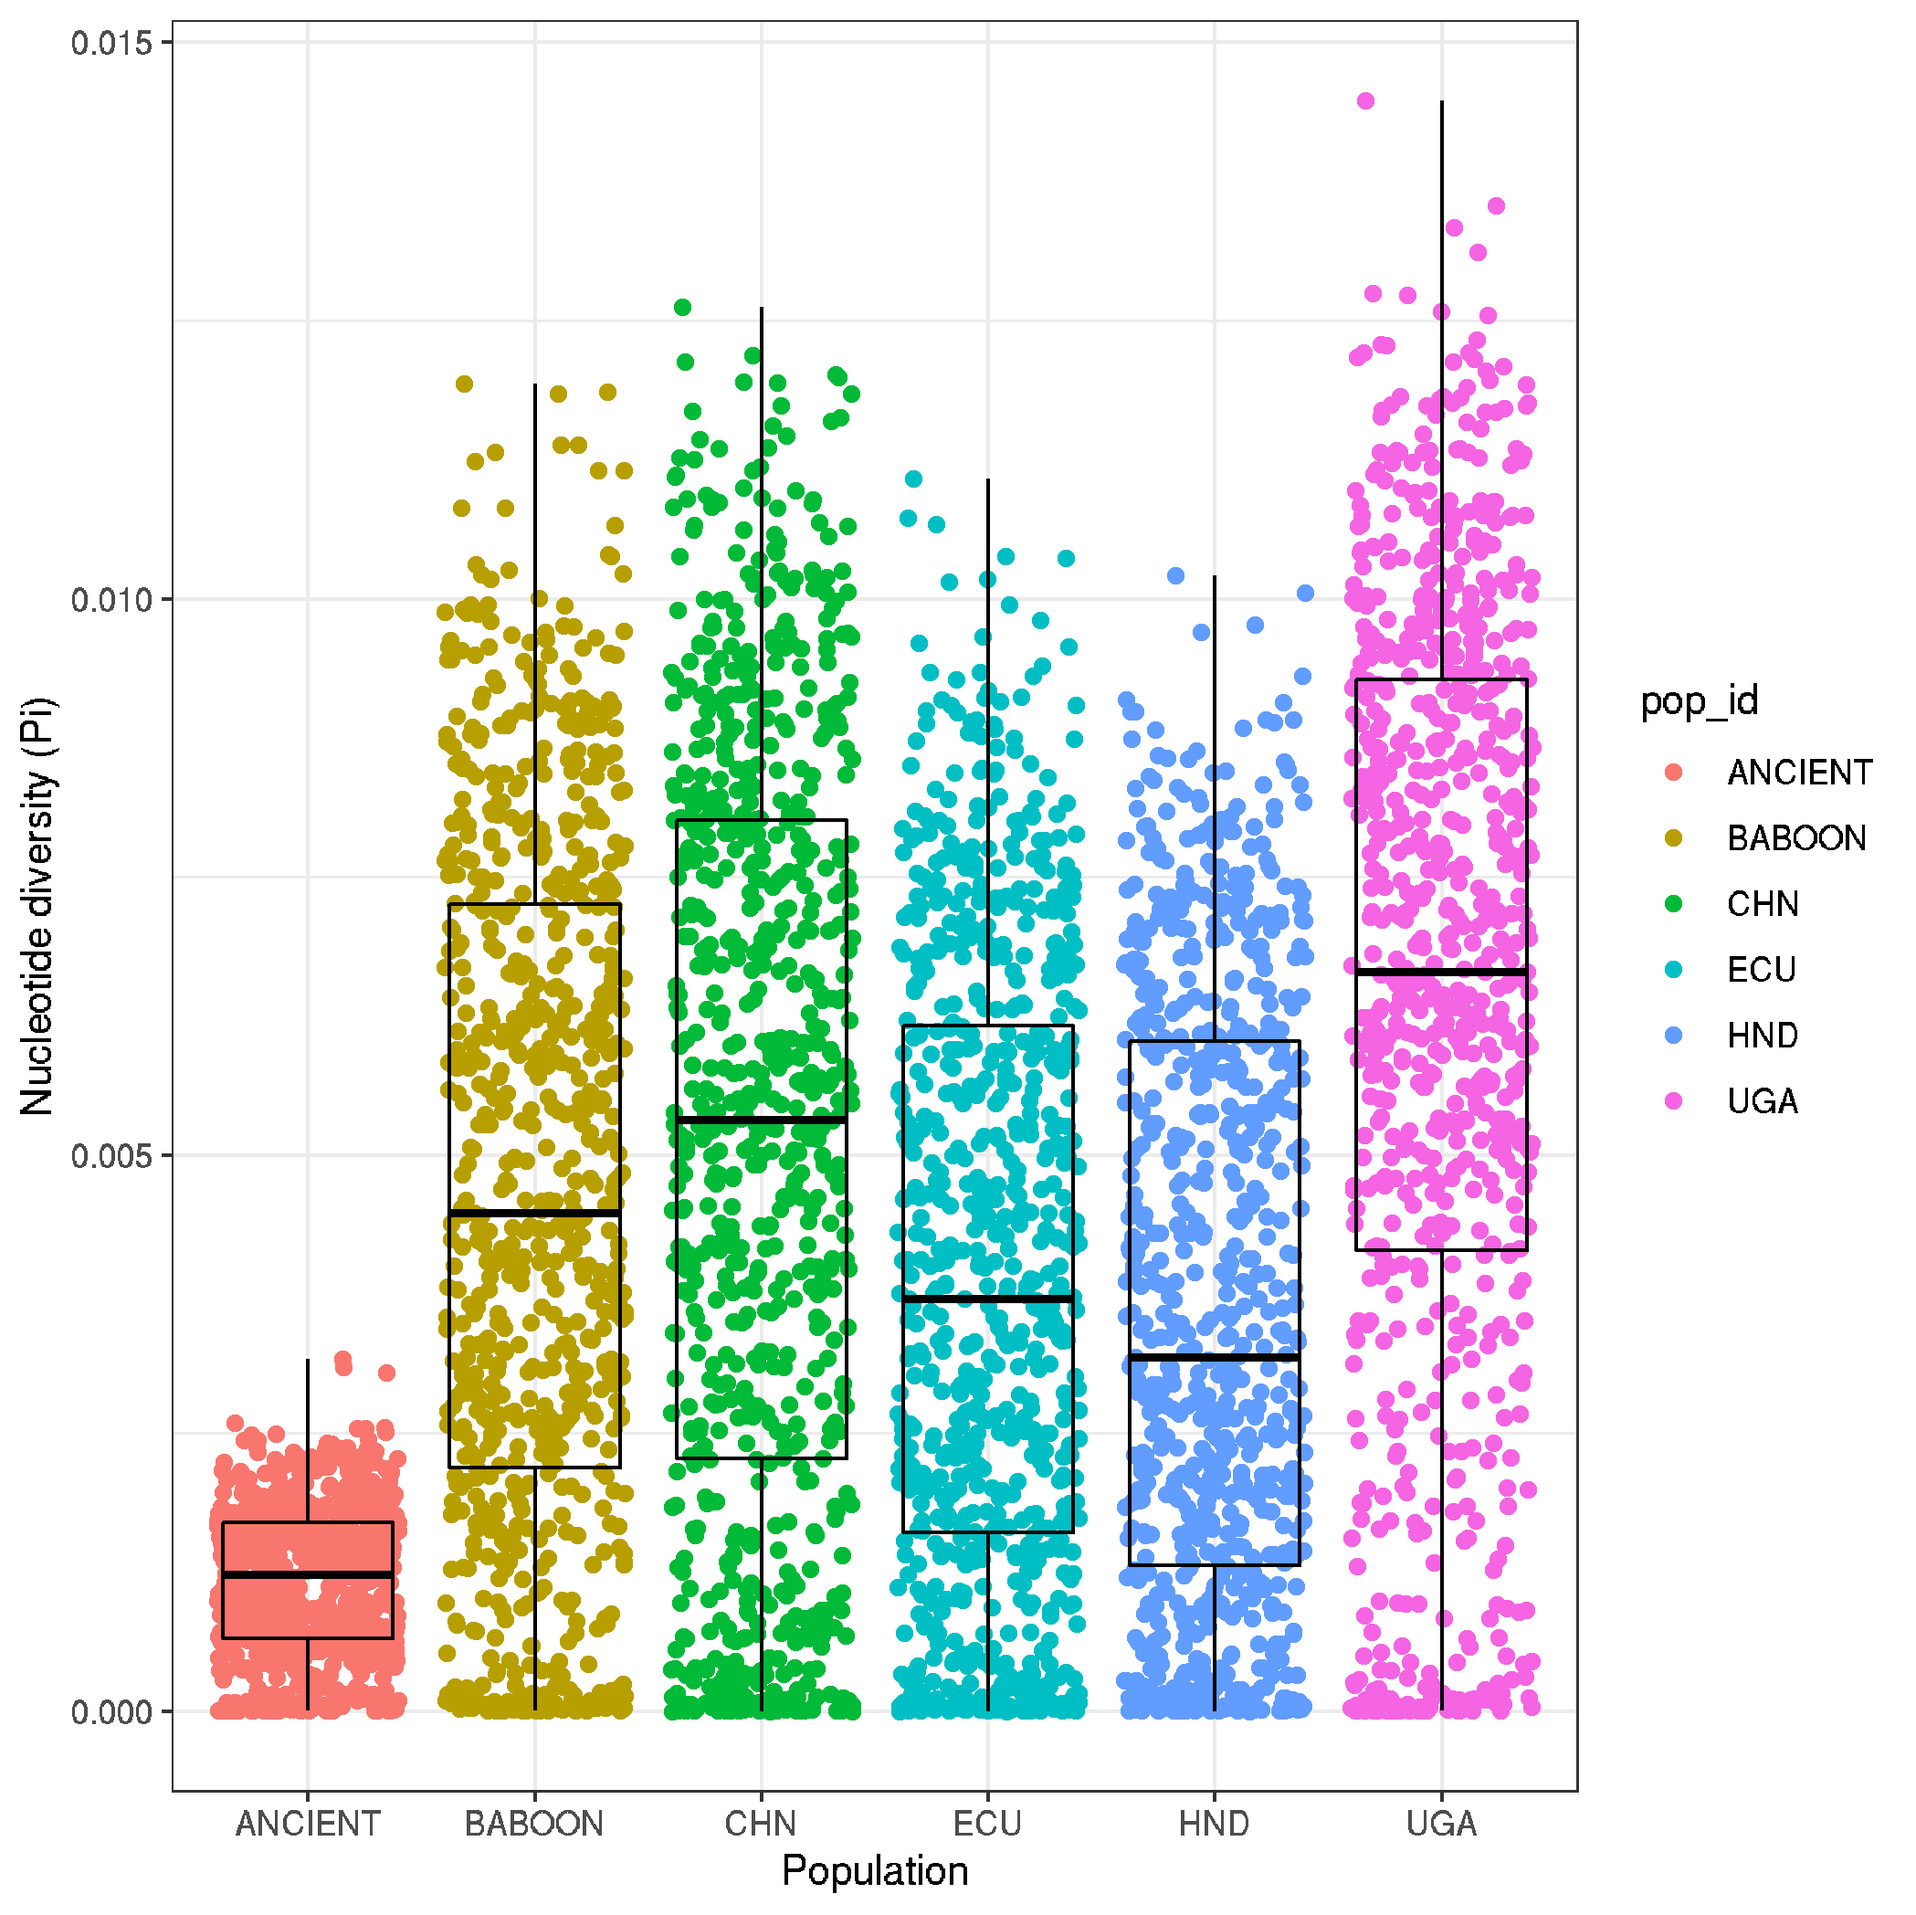
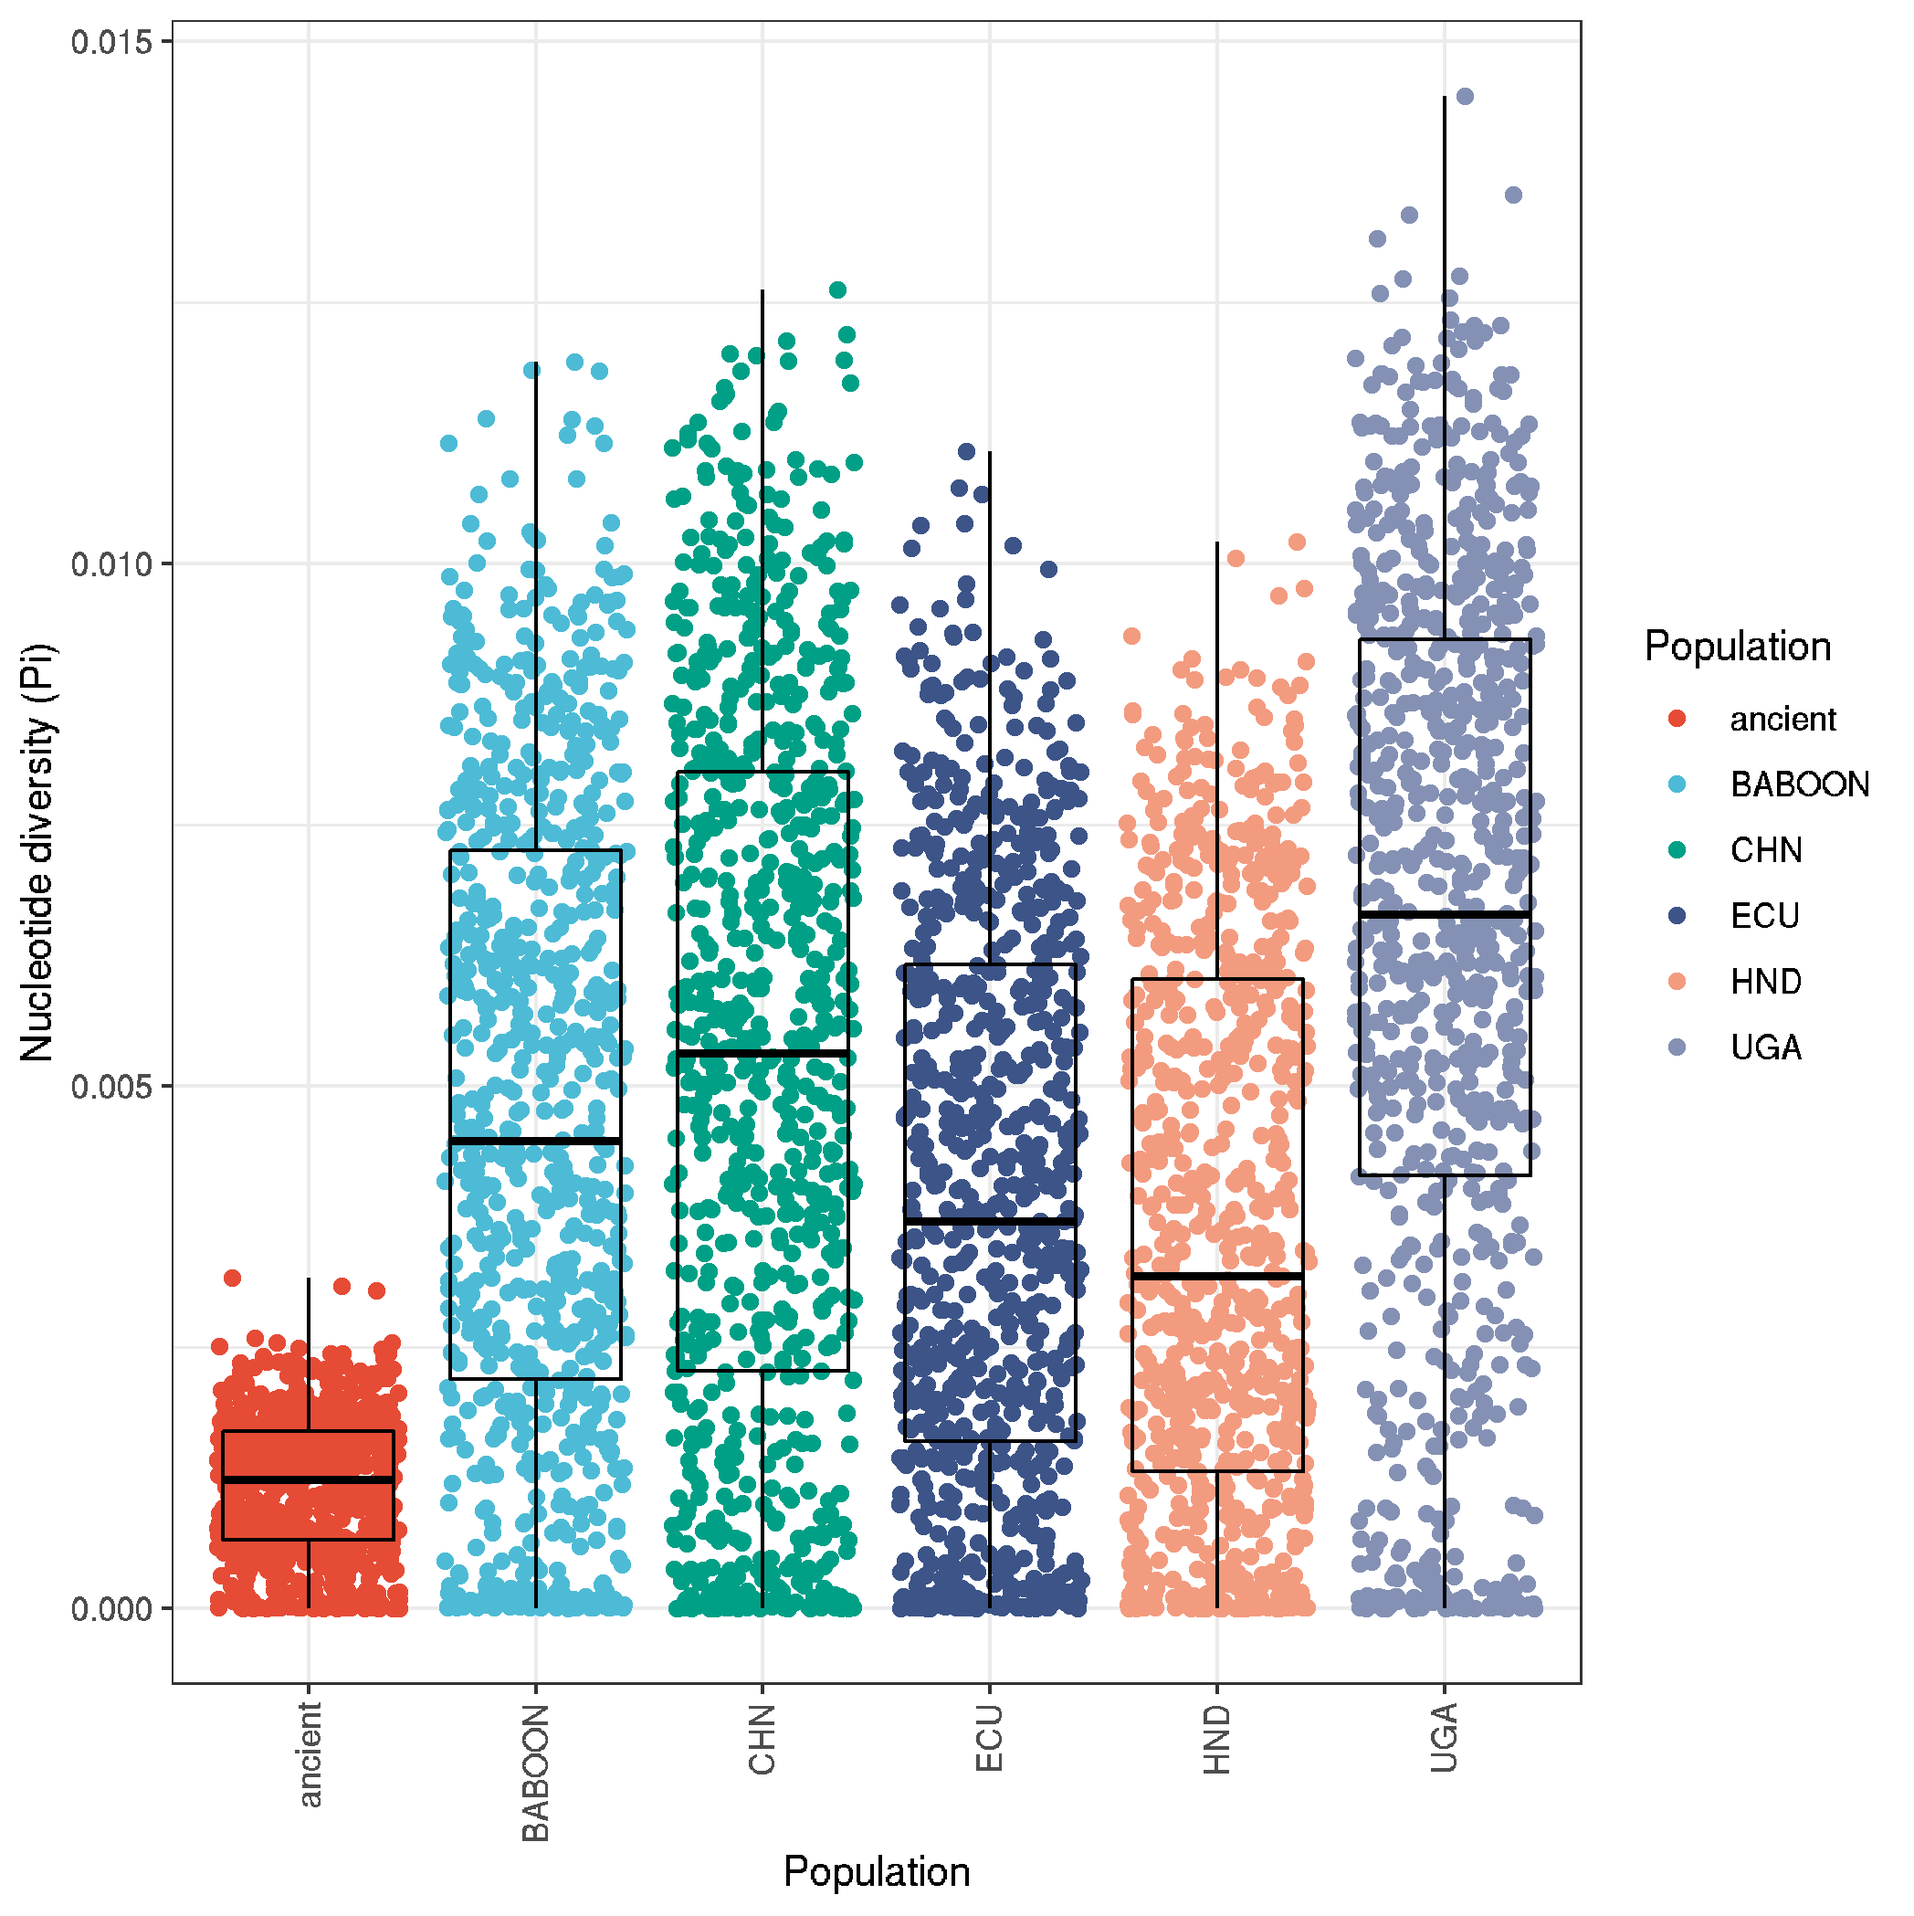
update

diff --git a/03_code/ancient_trichuris.workbook.md b/03_code/ancient_trichuris.workbook.md
@@ -450,6 +450,7 @@ mkdir ${WORKING_DIR}/04_ANALYSES/deamination && mv ${WORKING_DIR}/03_MAPPING/*de
 ```
 
 - where "plotPMD.R" is:
+
 ```R
 # script to make deamination frequency plots from PMD data
 
@@ -551,19 +552,11 @@ rm ${NAME}.tmp.bam
 
 ```
 
-### Genome coverage
+## Genome coverage
+
 ```bash
 # run coverage stats
 bsub.py --queue long 5 cov "~sd21/bash_scripts/run_cov_stats 100000"
-
-# extract mtDNA and nuclear (mean & stddev) data
-for i in *trimmed.chr.cov; do
-     name=${i%.trimmed.chr.cov};
-     nuc=$(grep -v "MITO" ${i%.trimmed.chr.cov}.100000_window.cov | datamash mean 5 sstdev 5 );
-     mtDNA=$(grep "MITO" ${i} | cut -f5 );
-     echo -e "${name}\t${nuc}\t${mtDNA}";
-done > nuc_mtDNA_coverage.stat
-
 ```
 where "run_cov_stats" is:
 ```bash
@@ -597,9 +590,82 @@ paste *.tmp > coverage_stats.summary
 rm *.tmp
 ```
 
+### Generate quantitative stats on coverage for supplementary tables etc
+```
+# extract mtDNA and nuclear (mean & stddev) data
+for i in *trimmed.chr.cov; do
+     name=${i%.trimmed.chr.cov};
+     nuc=$(grep -v "MITO" ${i%.trimmed.chr.cov}.100000_window.cov | datamash mean 5 sstdev 5 );
+     mtDNA=$(grep "MITO" ${i} | cut -f5 );
+     echo -e "${name}\t${nuc}\t${mtDNA}";
+done > nuc_mtDNA_coverage.stat
+```
+
 - this data will go into a supplementary table
 
 
+
+### generate some coverage plots,
+- particularly to compare relative coverage between sex chromosome scaffolds and autosomes to determine sex of individual sample
+
+```R
+# working dir: /nfs/users/nfs_s/sd21/lustre118_link/trichuris_trichiura/03_MAPPING/COV_STATS
+
+# load libraries
+library(tidyverse)
+
+# function to plot coverage per individual sample
+plot_cov <- function(data, title){
+data <- read.table(data,header=F)
+
+plot <- ggplot(data,aes(1:nrow(data),V5,col=V1)) +
+     geom_point() +
+     labs(title=title, x="Genomic position", y="Mean coverage per 100kb window") +
+     theme_bw() + theme(legend.position = "none") +
+     ylim(0,2*mean(data$V5))
+
+print(plot)
+}
+
+# run function, reading in a specific sample, to plot coverage
+ plot_cov("MN_UGA_KAB_HS_003.100000_window.cov","MN_UGA_KAB_HS_003.100000_window.cov")
+
+
+# nuclear to mitochondrial DNA coverage ratio
+nucmito <- read.table("nuc_mtDNA_coverage.stats",header=F)
+
+ggplot(nucmito,aes(V1,V4)) +
+     geom_point() +
+     theme(axis.text.x = element_text(angle = 90, vjust = 0.5, hjust=1)) +
+     labs(title = "Nuclear to mitochondrial genome coverage ratio", y = "Coverage Ratio")
+
+
+
+library(tidyverse)
+library(ggsci)
+
+# list file names
+file_names <- list.files(path = "./",pattern = ".trimmed.100000_window.cov")
+
+# load data using file names, and make a formatted data frame
+data <- purrr::map_df(file_names, function(x) {
+     	data <- read.delim(x, header = F, sep="\t")
+          data <- tibble::rowid_to_column(data, "NUM")
+     	cbind(sample_name = gsub(".trimmed.100000_window.cov","",x), data)
+     	})
+colnames(data) <- c("sample_name", "NUM", "CHROM", "START", "END", "RAW_COVERAGE", "PROPORTION_COVERAGE")
+data <- data[data$CHROM != "Trichuris_trichiura_MITO",]
+
+# plot boxplots and distributions of pairwise Fst analyses
+ggplot(data, aes(NUM, PROPORTION_COVERAGE/(median(PROPORTION_COVERAGE)), col = CHROM, group = sample_name)) +
+          geom_point(size=0.25) +
+          labs( x = "Genome position" , y = "Relative coverage per 100kb window") +
+          theme_bw() + theme(legend.position = "none", strip.text.x = element_text(size = 6)) +
+          facet_wrap(~sample_name, scales = "free_y")
+
+ggsave("plot_relative_genomewide_coverage_allsamples.png")
+```
+![](../04_analysis/plot_relative_genomewide_coverage_allsamples.png)          
 
 
 
@@ -1484,6 +1550,8 @@ for (i in 1:73) {
 ```
 - example of depth plot - these plots have been made for all samples.
 ![GVCFall.DP.png](../04_analysis/AN_DNK_COG_EN_0012.DPmitoALL.filtered.DP.png)
+
+
 
 ### Filter genotypes based on depth per genotype
 - depth is so variable, so not going to think to hard about this. Want to try capture as many sites in the ancient samples
@@ -2540,99 +2608,42 @@ threepop -i treemix.LDpruned.treemix.frq.gz -k 500 > threepop.out
 fourpop -i treemix.LDpruned.treemix.frq.gz -k 500 > fourpop.out
 
 cat threepop.out | grep ";" | grep -v "COLOBUS" | grep -v "LEAF" > threepop.out_2
-
+cat fourpop.out | grep ";" | grep -v "COLOBUS" | grep -v "LEAF" > fourpop.out_2
 ```
 - plots
 ```R
+# load libraries
 library(tidyverse)
+
+# load data
 data <- read.table("threepop.out_2",header=F)
-ggplot(data, aes(V2,V1,col=V4)) + geom_point(size=2) + geom_segment(aes(x = V2-V3, y = V1, xend = V2+V3, yend = V1))
+colnames(data) <- c("three_populations", "f_3", "std_error", "z_score")
+
+# plot f_3 (sorted) for each three population test
+#-
+ggplot(data, aes(f_3, reorder(three_populations, -f_3), col = z_score)) +
+     geom_point(size = 2) +
+     geom_segment(aes(x = f_3-std_error, y = three_populations, xend = f_3+std_error, yend = three_populations)) +
+     theme_bw()
 
 
+# load data
+data <- read.table("fourpop.out_2",header=F)
+colnames(data) <- c("four_populations", "f_4", "std_error", "z_score")
 
+# plot f_4 (sorted) for each three population test
+#-
+ggplot(data, aes(f_4, reorder(four_populations, -f_4), col = z_score)) +
+     geom_point(size = 2) +
+     geom_segment(aes(x = f_4-std_error, y = four_populations, xend = f_4+std_error, yend = four_populations)) +
+     theme_bw()
 
-
-
-```R
-library(poppr)
-library(vcfR)
-library(netview)
-library(tidyverse)
-library(networkD3)
-library(DT)
-
-rubi.VCF <- read.vcfR("mito_samples3x_missing0.8.recode.vcf")
-
-gl.rubi <- vcfR2genlight(rubi.VCF)
-ploidy(gl.rubi) <- 1
-
-metadata <- read.table("metadata", header=T, sep="\t")
-#metadata <- as.data.frame(gl.rubi$ind.names)
-#colnames(metadata) <- "sampleID"
-#metadata <- metadata %>% separate(sampleID,c("time", "country","population","host","sampleID"))
-
-pop(gl.rubi) <- metadata$group
-
-
-rubi.dist <- bitwise.dist(gl.rubi)
-rubi.dist.matrix <- as.matrix(rubi.dist)
-
-
-
-
-# Creating a list object to save our subsets in.
-rubi.variant.subset <- vector(mode = "list", length = 100)
-
-# Using a for loop to generate 100 subsets of 500 random variants from the rubi.VCF vcfR object.
-for (i in 1:100){
-  rubi.variant.subset[[i]] <- rubi.VCF[sample(size = 200, x= c(1:nrow(rubi.VCF)))]
-}
-
-# Creating the GenLight object
-rubi.gl.subset <- lapply(rubi.variant.subset, function (x) suppressWarnings(vcfR2genlight(x)))
-for (i in 1:length(rubi.gl.subset)){
-  ploidy(rubi.gl.subset[[i]]) <- 1
-}
-
-# Creating a simple UPGMA tree per object
-library(phangorn)
-rubi.trees <- lapply(rubi.gl.subset, function (x) upgma(bitwise.dist(x)))
-class(rubi.trees) <- "multiPhylo"
-
-# Overlapping the trees
-densiTree(rubi.trees, consensus = tree, scaleX = T, show.tip.label = F, alpha = 0.1)
-title(xlab = "Proportion of variants different")
-
-
-
-
-library("netview")
-
-
-
-
-
-# netview - this all works, but is not very informative
-# https://github.com/esteinig/netview/blob/master/tutorials/PearlOysterTutorial.md
-#
-# library("netview")
-# library(DT)
-# library(networkD3)
-#
-# rubi.dist <- bitwise.dist(gl.rubi)
-# rubi.dist.matrix <- as.matrix(rubi.dist)
-#
-# metadata <- read.table("sample_metadata_colours.list",header=T,comment.char="")
-#
-# oysterOptions <- netviewOptions(selectionTitle="k-Selection", nodeID="sample_id", nodeGroup="country", nodeColour="country_colour", communityAlgorithms=c("Walktrap", "Infomap", "Fast-Greedy"))
-#
-# graphs <- netview(rubi.dist.matrix, metadata, k=1:60, cluster = TRUE, options=oysterOptions)
-# kPlot <- plotSelection(graphs, options=oysterOptions)
-#
-# k20 <- graphs$k20
-# plot(k20, vertex.size=7, vertex.label=NA)
-# legend('topleft',legend=levels(as.factor(metadata$country)),col=levels(as.factor(metadata$country_colour)),pch=20)
 ```
+
+
+
+
+
 
 
 
@@ -2697,7 +2708,7 @@ data <- purrr::map_df(file_names, function(x) {
 ggplot(data,aes(pop_id,PI,col=pop_id)) +
      geom_jitter() +
      geom_boxplot(fill=NA, col="black") +
-     labs(x = "Population" , y = "Nucleotide diversity (Pi)") +
+     labs(x = "Population" , y = "Nucleotide diversity (Pi)", colour = "Population") +
      theme_bw() +
      theme(axis.text.x = element_text(angle = 90, vjust = 0.5, hjust=1)) +
      scale_color_npg()
@@ -2709,8 +2720,17 @@ ggplot(data,aes(NUM*100000,PI,col=CHROM, group=pop_id)) +
      labs(x = "Population" , y = "Nucleotide diversity (Pi)", col=NA) +
      theme_bw() +
      facet_grid(pop_id~.) +
-     theme(legend.position = "none") +
+     theme(legend.position = "none")
+
+
+
+plot_Pi <-  ggplot(data,aes(NUM*100000,PI,col=pop_id, group=pop_id)) +
+     geom_smooth(span = 0.1, se = FALSE) +
+     labs(x = "Population" , y = "Nucleotide diversity (Pi)", col= "Population") +
+     theme_bw() +
+     theme() +
      scale_color_npg()
+
 
 ggsave("plot_nucleotide_diversity_genomewide.png")
 ```
@@ -2754,6 +2774,16 @@ ggplot(data,aes(NUM*100000,TajimaD,col=CHROM, group=pop_id)) +
      scale_color_npg()
 
 ggsave("plot_tajimaD_genomewide.png")
+
+
+plot_tajD <-     ggplot(data,aes(NUM*100000,TajimaD,col=pop_id, group=pop_id)) +
+     geom_smooth(span = 0.1, se = FALSE) +
+     labs(x = "Population" , y = "Tajima's D", col= "Population") +
+     theme_bw() +
+     theme() +
+     scale_color_npg()
+
+plot_Pi + plot_tajD + plot_layout(ncol = 1, guides = "collect")
 ```
 ![](../04_analysis/plot_tajimaD_boxplot.png)
 ![](../04_analysis/plot_tajimaD_genomewide.png)
@@ -2784,6 +2814,12 @@ UGA_x_nuclear_3x_animalPhonly.list; do \
           fi;
      done;
 done
+
+leafmonkey_colobus.list
+hq_modern_humanonly.list
+
+vcftools --gzvcf Trichuris_trichiura.cohort.nuclear_variants.final.recode.vcf --weir-fst-pop leafmonkey_colobus.list  --weir-fst-pop hq_modern_humanonly.list --fst-window-size 100000 --out human_vs_LMCG_100k
+
 ```
 
 - make some plots
@@ -2827,51 +2863,43 @@ ggplot(data, aes(NUM*100000, WEIGHTED_FST, col=CHROM, group=sample_pair)) +
 ggsave("plot_human_pop_pairwise_FST__genomewide.png")
 
 
-```
-![](../04_analysis/plot_human_pop_pairwise_FST_boxplot.png)
-
-
-
-
-
-## Genome Coverage
-
-# function to plot coverage per sample
-plot_cov <- function(data, title){
-data <- read.table(data,header=F)
-
-plot <- ggplot(data,aes(1:nrow(data),V5,col=V1)) +
+plot_pairwise_fst <- function(file) {
+     # load and prep data
+     data <- read.delim(file, header=T, sep="\t")
+     data <- tibble::rowid_to_column(data, "NUM")
+     data$COMPARISON <- gsub("_100k.windowed.weir.fst","",file)
+     # plot
+     ggplot(data, aes(NUM*100000, WEIGHTED_FST, col=CHROM)) +
      geom_point() +
-     labs(title=title, x="Genomic position", y="Coverage (mean/100kb)") +
-     theme_bw() + theme(legend.position = "none") + ylim(0,2*mean(data$V5))
-
-print(plot)
+     labs(x = "Population" , y = "WEIGHTED_FST", col=NA) +
+     theme_bw() + ylim(0,1) +
+     facet_grid(COMPARISON~.) +
+     theme(legend.position = "none")
 }
 
- plot_cov("MN_UGA_KAB_HS_003.100000_window.cov","MN_UGA_KAB_HS_003.100000_window.cov")
+BABOON_v_UGA_fst <- plot_pairwise_fst("BABOON_v_UGA_100k.windowed.weir.fst")
+human_vs_LMCG_fst <- plot_pairwise_fst("human_vs_LMCG_100k.windowed.weir.fst")
+
+BABOON_v_UGA_fst + human_vs_LMCG_fst + plot_layout(ncol=1)
 
 
-# nuclear to mitochondrial DNA coverage ratio
-nucmito <- read.table("nuc_mtDNA_coverage.stats",header=F)
+# for supplementary data
+CHN_v_UGA_fst <- plot_pairwise_fst("CHN_v_UGA_100k.windowed.weir.fst")
+CHN_v_ECU_fst <- plot_pairwise_fst("CHN_v_ECU_100k.windowed.weir.fst")
+ECU_v_UGA_fst <- plot_pairwise_fst("ECU_v_UGA_100k.windowed.weir.fst")
 
-ggplot(nucmito,aes(V1,V4)) +
-     geom_point() +
-     theme(axis.text.x = element_text(angle = 90, vjust = 0.5, hjust=1)) +
-     labs(title = "Nuclear to mitochodnrial genome coverage ratio", y = "Coverage Ratio")
+CHN_v_UGA_fst + CHN_v_ECU_fst + ECU_v_UGA_fst + plot_layout(ncol=1)
+ggsave("plot_human_pop_pairwise_FST_boxplot")
 
 
 
-# matrix of coverage per scaffold
-library(tidyverse)
-library(reshape2)
 
-data <- read.table("coverage_stats.summary", header=T, sep="\t")
-data <- rowid_to_column(data,"ID")
-data <- melt(data,  id.vars="ID")
-data <- data %>% filter(grepl(".trimmed.chr.cov$", variable))
+```
+- boxplot summaries
+![](../04_analysis/plot_human_pop_pairwise_FST_boxplot.png)
 
-ggplot(data,aes(variable,ID,fill=log10(value))) + geom_tile() +
-theme(axis.text.x = element_text(angle = 90, vjust = 0.5, hjust=1))
+- genomewide - human populations
+![](../04_analysis/plot_human_pop_pairwise_FST_boxplot.png)
 
 
 
